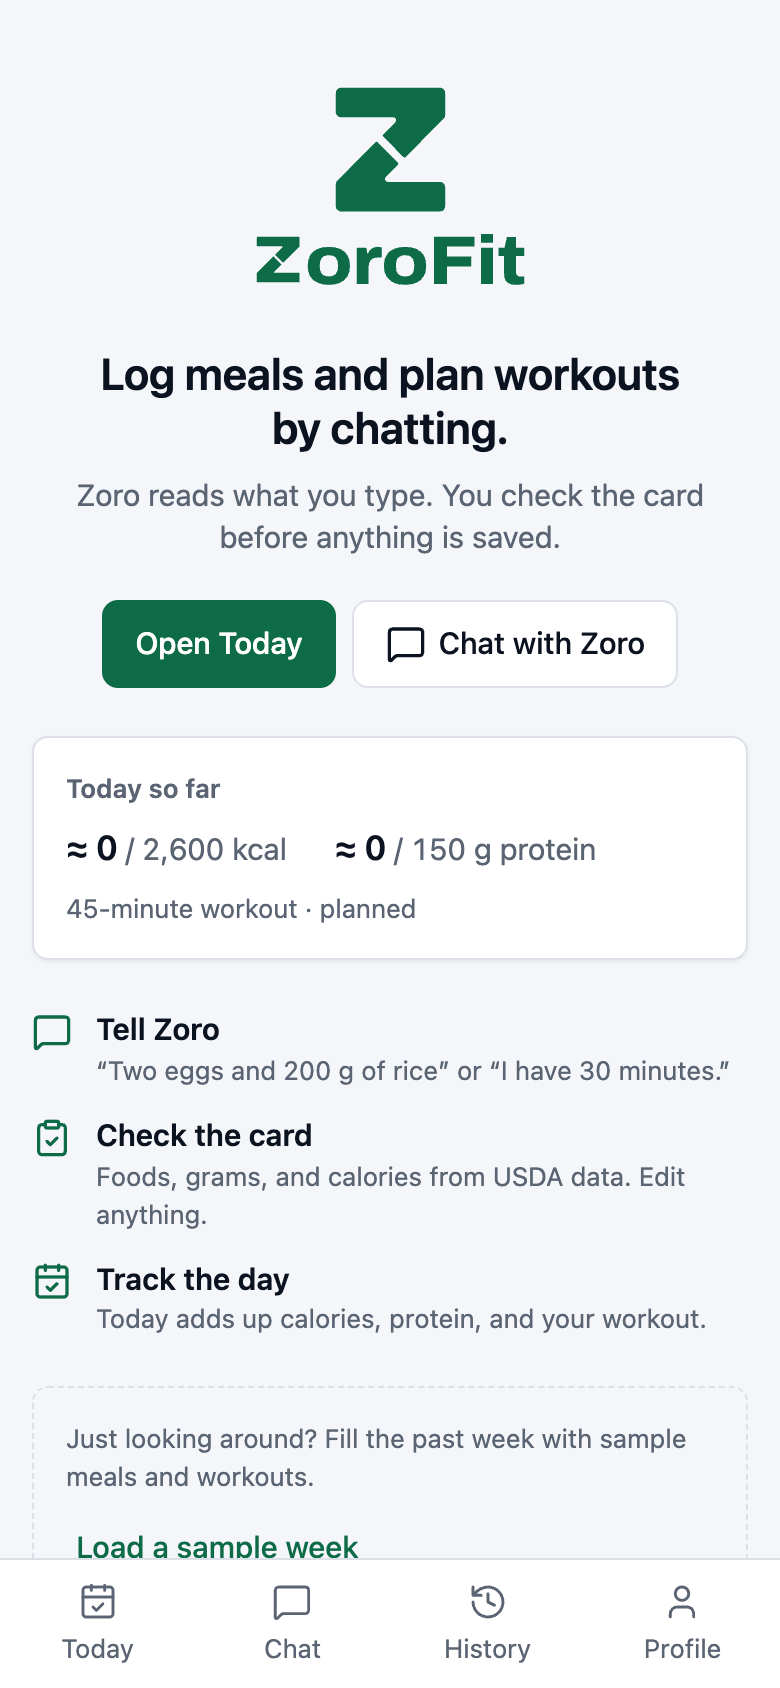
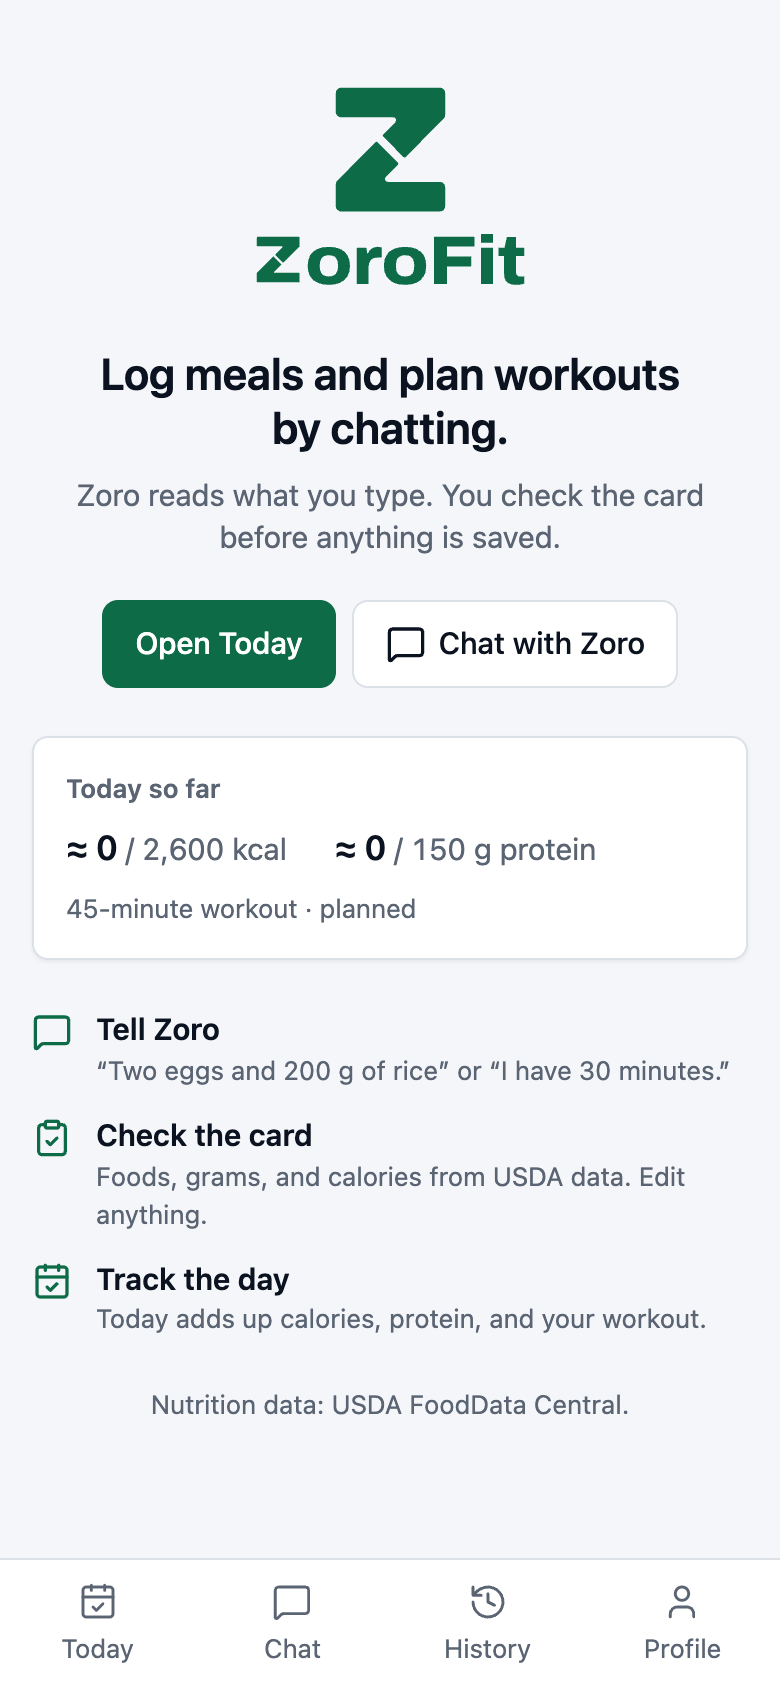
offer sample data on Home only when nothing has ever been logged

Changed region(s): [[0.0923, 0.8318, 0.8615, 0.9242]]

diff --git a/frontend/src/pages/Home.jsx b/frontend/src/pages/Home.jsx
@@ -38,12 +38,18 @@ function TodaySummary({ today }) {
 
 export default function Home() {
   const [today, setToday] = useState(null);
+  const [hasHistory, setHasHistory] = useState(true);
   const [loadingDemo, setLoadingDemo] = useState(false);
   const navigate = useNavigate();
 
   useEffect(() => {
     // Home still works without the API (offline, or the free server waking up); the summary just waits.
     api.getToday().then(setToday).catch(() => setToday(null));
+    // An empty today is normal after midnight; only offer sample data to someone who has logged nothing at all.
+    api
+      .listMeals(1)
+      .then((meals) => setHasHistory(meals.length > 0))
+      .catch(() => setHasHistory(true));
   }, []);
 
   async function loadDemo() {
@@ -55,8 +61,6 @@ export default function Home() {
       setLoadingDemo(false);
     }
   }
-
-  const isEmpty = today && today.meals.length === 0;
 
   return (
     <section className="home">
@@ -90,7 +94,7 @@ export default function Home() {
         ))}
       </ol>
 
-      {isEmpty && (
+      {!hasHistory && (
         <div className="home-demo">
           <p className="small muted">Just looking around? Fill the past week with sample meals and workouts.</p>
           <button type="button" className="btn btn-ghost" disabled={loadingDemo} onClick={loadDemo}>

diff --git a/frontend/src/api.js b/frontend/src/api.js
@@ -77,7 +77,7 @@ export const api = {
   getProfile: () => apiFetch("/api/profile"),
   saveProfile: (profile) => apiFetch("/api/profile", { method: "PUT", body: profile }),
   getToday: () => apiFetch("/api/today"),
-  listMeals: () => apiFetch("/api/meals"),
+  listMeals: (limit = 200) => apiFetch(`/api/meals?limit=${limit}`),
   createMeal: (meal) => apiFetch("/api/meals", { method: "POST", body: meal }),
   updateMeal: (id, meal) => apiFetch(`/api/meals/${id}`, { method: "PUT", body: meal }),
   deleteMeal: (id) => apiFetch(`/api/meals/${id}`, { method: "DELETE" }),
